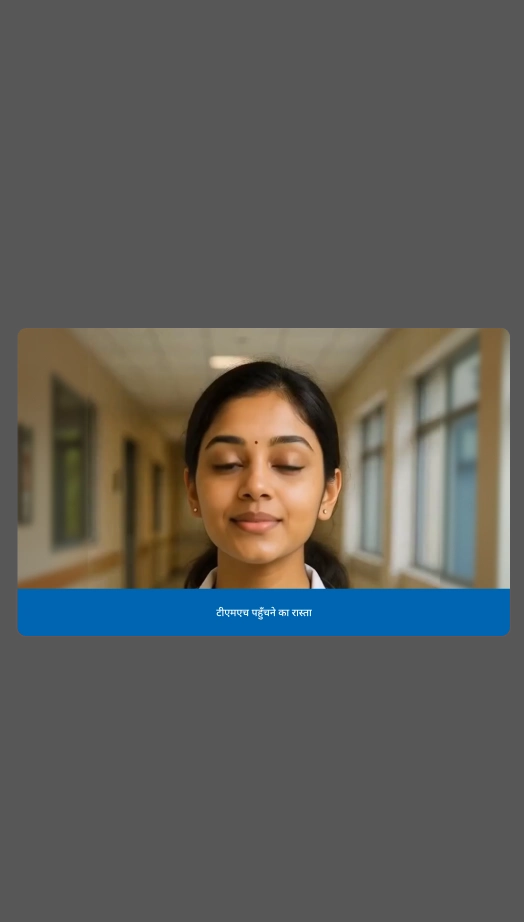
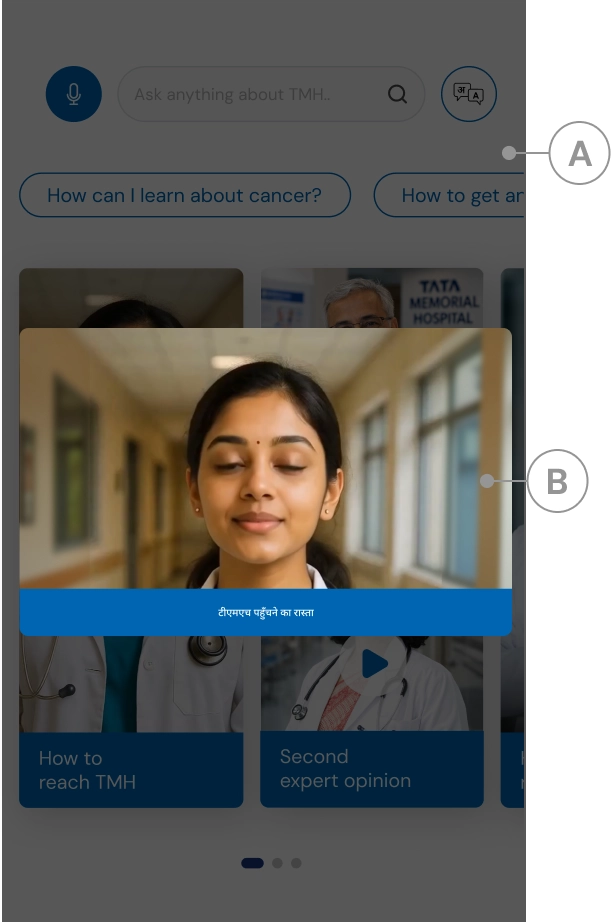
'28. Patient Support Centre' page content and image changes

diff --git a/src/Components/CoreComponents/BentoGrid/BentoGrid.js b/src/Components/CoreComponents/BentoGrid/BentoGrid.js
@@ -689,27 +689,25 @@ const BentoGrid = () => {
                                         </div>
 
                                     </div>
-                                    <div className="bento-layout">
-                                        <div className="bento-container">
-                                            <ul className="bullets">
-                                                <li><b>{tabData[activeTab].desktopTitle1}</b></li>  {/* Changed - dynamic */}
-                                                {tabData[activeTab].desktopBullets1.map((bullet, index) => (
-                                                    <li key={index}>{bullet}</li>
-                                                ))}
-                                            </ul>
-                                        </div>
-                                        <div className="bento-img-content">
-                                            <img
-                                                className='full-width'
-                                                src={tabData[activeTab].desktopImage1}
-                                                alt=""
-                                            />
-                                            <div className="bento-title">
-                                                {tabData[activeTab].desktopDescription1}  {/* Changed - dynamic */}
+
+                                    {(tabData[activeTab].desktopImage1 || tabData[activeTab].desktopBullets1.length > 0) && (
+                                        <div className="bento-layout">
+                                            <div className="bento-container">
+                                                <ul className="bullets">
+                                                    <li><b>{tabData[activeTab].desktopTitle1}</b></li>
+                                                    {tabData[activeTab].desktopBullets1.map((bullet, index) => (
+                                                        <li key={index}>{bullet}</li>
+                                                    ))}
+                                                </ul>
+                                            </div>
+                                            <div className="bento-img-content">
+                                                <img className='full-width' src={tabData[activeTab].desktopImage1} alt="" />
+                                                <div className="bento-title">
+                                                    {tabData[activeTab].desktopDescription1}
+                                                </div>
                                             </div>
                                         </div>
-
-                                    </div>
+                                    )}
                                 </div>
                             </div>
 

diff --git a/src/Components/CoreComponents/VideoForPatientSupportCentre/VideoForPatientSupportCentre.js b/src/Components/CoreComponents/VideoForPatientSupportCentre/VideoForPatientSupportCentre.js
@@ -227,9 +227,13 @@ const VideoForPatientSupportCentre = () => {
                                     </div>
                                     <div className='pagecont pt-40'>
                                         <p className='title'>Mobile</p>
-                                        <div style={{ fontSize: '14px' }}>On mobile, the experience transitions into a swipeable carousel layout to improve browsing, touch interaction, and content discovery within smaller viewports. Video cards are presented in stacked vertical formats with horizontal scrolling support, allowing users to quickly explore and navigate through video-based content.
-                                            <br />
-                                            Suggested search prompts adapt into horizontally scrollable pills, while search and language actions remain easily accessible within the viewport.</div>
+                                        <div className="horizBullets2 no-margin">
+                                            <ul className="bullets nospace">
+                                                <li><b>Selected Video State</b></li>
+                                                <li>A. Overlay - #000000 66%</li>
+                                                <li>B. Video Container - 336 by 212 px, centre aligned to the first fold of the screen</li>
+                                            </ul>
+                                        </div>
                                         <br />
                                         <img style={{ width: '25%' }} src={require('../../../Assets/Images/patient-support-video-anatomy-mobile.webp')} alt="" />
                                     </div>
@@ -273,7 +277,7 @@ const VideoForPatientSupportCentre = () => {
                                         </div>
                                         <br />
                                     </div>
-                                    <div className='pagecont'>
+                                    <div className='pagecont pt-40'>
                                         <p className='title'>Mobile</p>
                                         <img style={{ width: '25%' }} src={require('../../../Assets/Images/patient-support-video-spacing-mobile.webp')} alt="" />
                                     </div>
